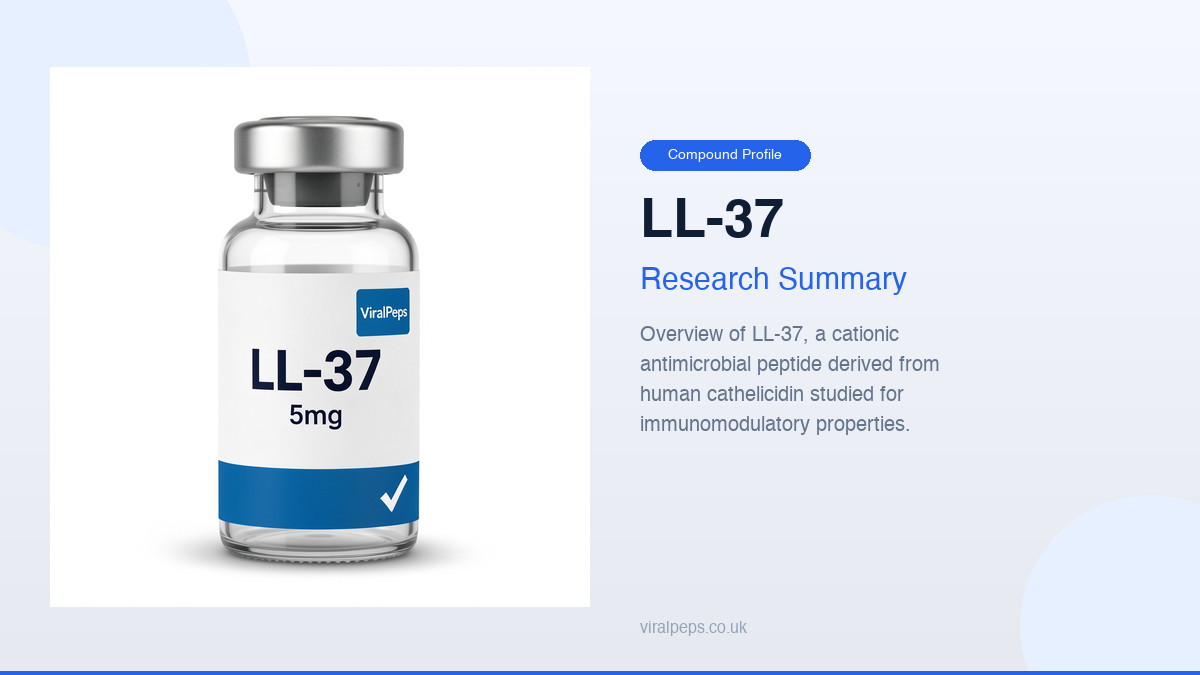
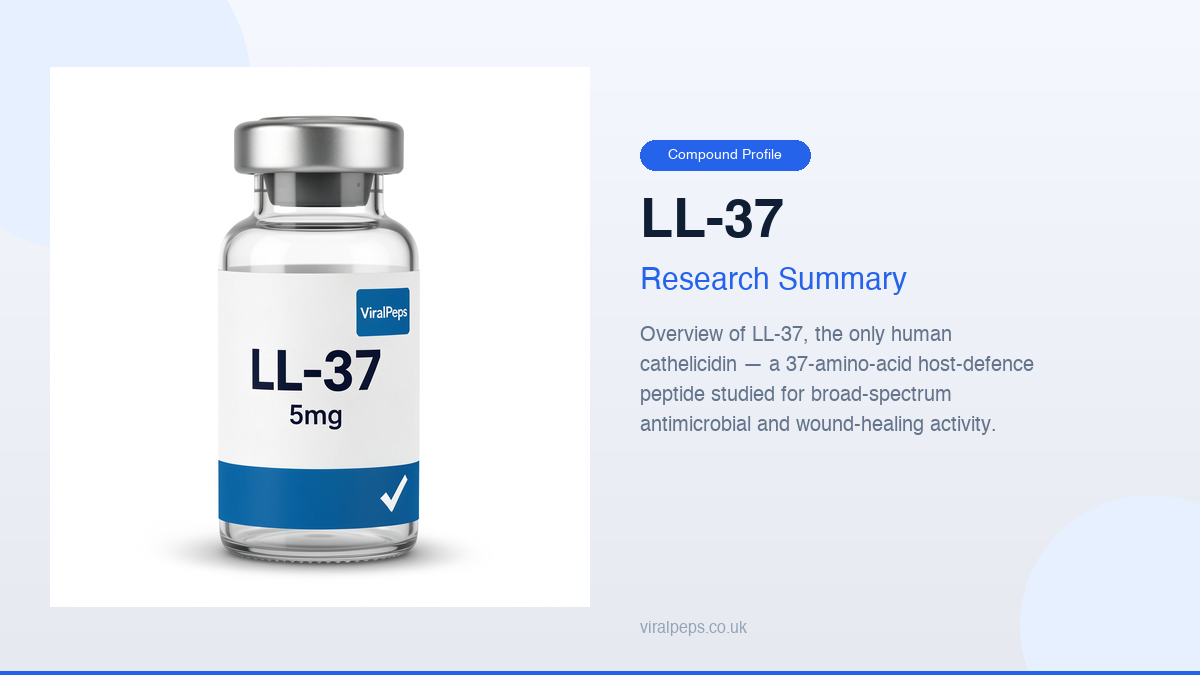
Add LL-37 research summary article content + guide card image

Changed region(s): [[0.5242, 0.4667, 0.8633, 0.6533]]

diff --git a/src/data/research-content.ts b/src/data/research-content.ts
@@ -7451,7 +7451,64 @@ const content: Record<string, ResearchPageContent> = {
       body: '[1] Pickart L, Margolina A. Regenerative and protective actions of the GHK-Cu peptide in the light of the new gene data. Int J Mol Sci. 2018;19(7):1985. PMID 29973550.\n[2] Pickart L. The human tri-peptide GHK and tissue remodeling. J Biomater Sci Polym Ed. 2008;19(8):969\u2013988. PMID 18644225.\n[3] Maquart FX, Pickart L, Laurent M, Gillery P, Monboisse JC, Borel JP. Stimulation of collagen synthesis in fibroblast cultures by the tripeptide-copper complex glycyl-L-histidyl-L-lysine-Cu2+. FEBS Lett. 1988;238(2):343\u2013346. PMID 3169198.\n[4] Pickart L, Goodman S, inventors. Anti-aging and tissue-regeneration peptides. US Patent.\n[5] Wegrowski Y, Maquart FX, Borel JP. Stimulation of sulfated glycosaminoglycan synthesis by the tripeptide-copper complex glycyl-L-histidyl-L-lysine-Cu2+. Life Sci. 1992;51(13):1049\u20131056. PMID 1513214.'
     }
   ],
-}
+},
+
+'ll37-research-summary': {
+  slug: 'll37-research-summary',
+  compoundSlug: 'll-37',
+  pullQuote: 'LL-37 is the only human cathelicidin \u2014 a 37-amino-acid host-defence peptide that stands at the crossroads of innate immunity, antimicrobial activity, and tissue repair, rather than a single-pathway signalling molecule.',
+  quickInfo: [
+    { label: 'Peptide Name', value: 'LL-37 (human cathelicidin antimicrobial peptide)' },
+    { label: 'Classification', value: 'Host-defence / antimicrobial peptide (Cathelicidin)' },
+    { label: 'Sequence', value: 'LLGDFFRKSKEKIGKEFKRIVQRIKDFLRNLVPRTES' },
+    { label: 'Length', value: '37 amino acids' },
+    { label: 'Molecular Weight', value: '~4493 Da' },
+    { label: 'Source', value: 'Cleaved from the hCAP-18 precursor by proteinase 3' },
+    { label: 'Structure', value: 'Amphipathic alpha-helix' },
+    { label: 'Evidence Strength', value: 'Strong preclinical and in vitro; active human-trial research' },
+    { label: 'Primary Research Areas', value: 'Antimicrobial defence, immunomodulation, angiogenesis, wound healing' },
+  ],
+  sections: [
+    {
+      title: 'What Is LL-37?',
+      body: 'LL-37 is the only cathelicidin antimicrobial peptide found in humans. It is a 37-amino-acid amphipathic alpha-helical peptide generated when the hCAP-18 precursor protein is cleaved by proteinase 3 \u2014 most notably in neutrophils, but also in epithelial cells, keratinocytes, and macrophages.\n\nBecause it bridges antimicrobial defence and immune modulation, LL-37 is studied as a \'host-defence peptide\': a molecule the body uses to control microbial growth while simultaneously shaping the inflammatory response. This dual activity makes it a central research subject for innate immunity, infection control, and wound-healing models.\n\n[**Compare LL-37 prices from UK suppliers \u2192**](/compounds/ll-37)',
+    },
+    {
+      title: 'Mechanism of Action',
+      body: 'LL-37 possesses a positively charged, amphipathic structure that lets it interact with negatively charged microbial membranes while sparing most host cells. Its principal mechanisms include:\n\n\u2022 Electrostatic binding to and disruption of bacterial and fungal membranes, causing microbial cell lysis;\n\n\u2022 Neutralisation of lipopolysaccharide (LPS), dampening endotoxin-driven inflammatory signalling;\n\n\u2022 Direct chemotactic activity on immune cells such as monocytes, neutrophils, and T cells;\n\n\u2022 Modulation of Toll-like receptor (TLR) signalling and cytokine release;\n\n\u2022 Promotion of angiogenesis and stimulation of keratinocyte and fibroblast migration relevant to wound closure.\n\n[**Related: How Peptides Work \u2192**](/research/how-peptides-work)',
+    },
+    {
+      title: 'Antimicrobial & Anti-Biofilm Research',
+      body: 'A substantial body of in vitro work characterises LL-37\'s broad-spectrum antimicrobial activity against Gram-positive and Gram-negative bacteria, fungi, and enveloped viruses. Its membrane-disrupting mode of action is considered less prone to classic resistance mechanisms than conventional antibiotics, which has made it a focus of antimicrobial-resistance research.\n\nLL-37 also inhibits biofilm formation and can act on established biofilms, an area of interest for chronic wound and medical-device infection models. Reduced or dysregulated LL-37 levels have been implicated in conditions such as atopic dermatitis and chronic skin ulceration, supporting the rationale for studying exogenous LL-37.',
+    },
+    {
+      title: 'Immunomodulation & Inflammation',
+      body: 'Beyond direct antimicrobial action, LL-37 shapes the immune environment. It recruits immune cells, influences dendritic cell maturation, and can both stimulate and suppress inflammatory cytokine production depending on context and concentration. This context-dependent behaviour is central to research into autoimmunity, sepsis, and inflammatory skin disease.\n\nIts LPS-neutralising capacity is particularly relevant to research on endotoxaemia and Gram-negative sepsis, where excess inflammation rather than the pathogen itself drives much of the pathology.\n\n[**Related Guide: Choosing a UK Supplier \u2192**](/research/choosing-a-uk-supplier)',
+    },
+    {
+      title: 'Wound Healing & Angiogenesis',
+      body: 'LL-37 is consistently studied for its role in tissue repair. It stimulates keratinocyte migration and proliferation, promotes the migration and tube formation of endothelial cells (angiogenesis), and modulates the release of growth factors involved in wound closure. In diabetic and chronic wound models, restoring or supplementing LL-37 has been investigated as a strategy to accelerate healing.\n\nSkin and epithelial cells express LL-37, and its expression is regulated by vitamin D \u2014 a connection that links host-defence research with broader questions about micronutrient status and innate immune function.',
+    },
+    {
+      title: 'Regulatory Status & Research Use',
+      body: 'LL-37 is a research peptide. It is not approved by the MHRA, EMA, or FDA for medicinal use and is supplied for laboratory and educational purposes only. Like all research peptides, it should be handled in a controlled environment, reconstituted per supplier guidance (typically bacteriostatic water), stored appropriately (cool, protected from light), and verified by analytical testing such as HPLC or mass spectrometry.',
+    },
+  ],
+  faq: [
+    { question: 'Is LL-37 a natural peptide?', answer: 'Yes. LL-37 is the active human cathelicidin, cleaved from the hCAP-18 precursor protein. Most research material is synthetic or recombinant, chemically identical to the endogenous sequence.' },
+    { question: 'Is LL-37 the same as other cathelicidins in animals?', answer: 'No. Other mammals express different cathelicidins (for example, protegrins in pigs, CRAMP in mice). LL-37 is uniquely the human form.' },
+    { question: 'Is LL-37 approved for human use?', answer: 'No. It is a research-grade peptide not approved by the MHRA, EMA, or FDA for medicinal use.' },
+  ],
+  references: [
+    'Bals R, Wang X, Zasloff M, Wilson JM. The peptide antibiotic LL-37/hCAP-18 is expressed in epithelia of the human lung. Proc Natl Acad Sci USA. 1998;95(16):9541-9546.',
+    'Yang D, Chertov O, Oppenheim JJ. The role of mammalian antimicrobial peptides in innate immunity. Trends Immunol. 2001;22(7):352-355.',
+    'Koczulla R, von Degenfeld G, Kupatt C, et al. An angiogenic role for the human peptide antibiotic LL-37/hCAP-18. J Clin Invest. 2003;111(11):1665-1672.',
+    'Nagaoka I, Hirota S, Niyonsaba F, et al. Cathelicidin family of antibacterial peptides CAP18 and CAP11. Inflam Res. 2000;49(4):159-167.',
+    'Wang G. Human antimicrobial peptides and proteins. Pharmaceuticals. 2014;7(5):545-594.',
+    'Liu PT, Stenger S, Li H, et al. Toll-like receptor triggering of a vitamin D-mediated human antimicrobial response. Science. 2006;311(5768):1770-1773.',
+  ],
+},
+
 
 };
 export default content;

diff --git a/scripts/create_guide_image.py b/scripts/create_guide_image.py
@@ -7,14 +7,14 @@ from PIL import Image, ImageDraw, ImageFont
 import os
 
 # ===================== CONFIG =====================
-COMPOUND = "Epitalon"
-VIAL_PATH = "public/images/compounds/epitalon-vial.png"
-OUTPUT_PATH = "public/images/guides/epitalon-research-summary.png"
+COMPOUND = "LL-37"
+VIAL_PATH = "public/images/compounds/ll-37-vial.png"
+OUTPUT_PATH = "public/images/guides/ll37-research-summary.png"
 DESCRIPTION_LINES = [
-    "Overview of Epitalon, a pineal-derived",
-    "tetrapeptide researched for telomerase",
-    "activation, circadian rhythm regulation and",
-    "longevity effects across 46 UK suppliers.",
+    "Overview of LL-37, the only human",
+    "cathelicidin — a 37-amino-acid host-defence",
+    "peptide studied for broad-spectrum",
+    "antimicrobial and wound-healing activity.",
 ]
 # ==================================================
 
